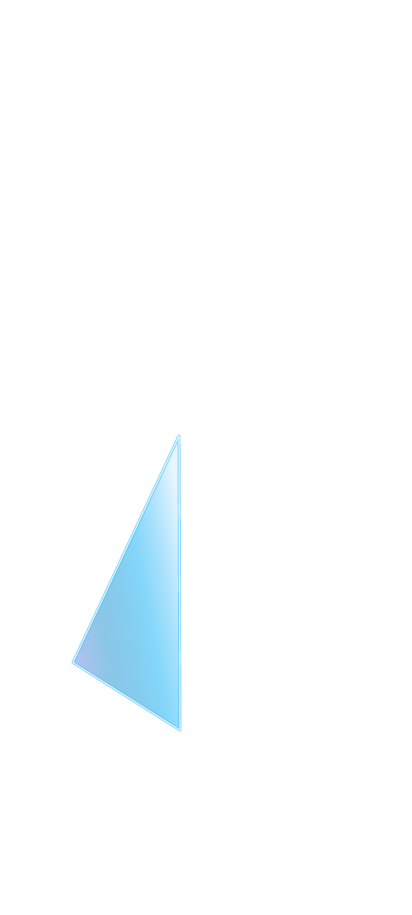
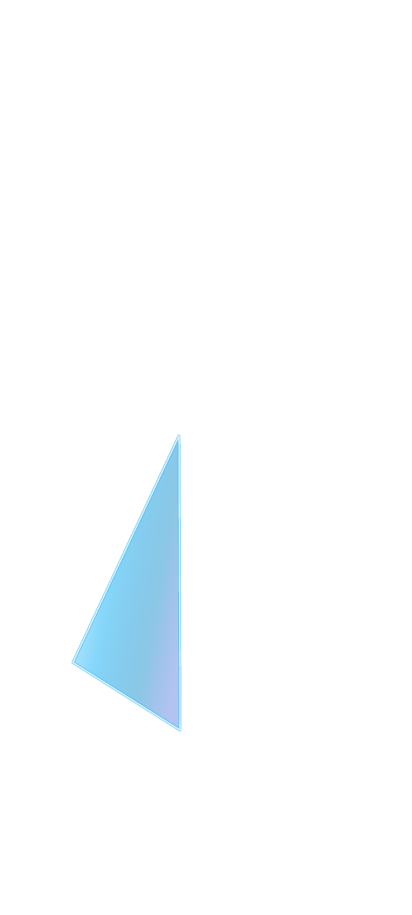
fix(startup): cover all 23 screen polygons and slow fan sweep to 3.85s

Changed region(s): [[0.3495, 0.4896, 0.4369, 0.7956], [0.1748, 0.7038, 0.233, 0.7344]]

diff --git a/src/components/StartupScreen.js b/src/components/StartupScreen.js
@@ -1,20 +1,12 @@
 import React, { useEffect, useState } from 'react';
-import { Image, StatusBar, StyleSheet, useWindowDimensions, View } from 'react-native';
+import { Image, StatusBar, StyleSheet, View } from 'react-native';
 import { STARTUP_POLYGONS } from './startupPolygons';
 import OVERLAYS from './startupOverlays';
 
-const STEP_MS = 80;
+const STEP_MS = 175;
 
 export default function StartupScreen() {
     const totalPolygons = STARTUP_POLYGONS.length;
-    const dims = useWindowDimensions();
-    const frameStyle = [
-        styles.bgImage,
-        dims?.width > 0 && dims?.height > 0
-            ? { width: dims.width, height: dims.height }
-            : null,
-    ];
-
     const [litCount, setLitCount] = useState(1);
 
     useEffect(() => {
@@ -29,7 +21,7 @@ export default function StartupScreen() {
             if (next >= totalPolygons) {
                 clearInterval(timer);
             }
-        }, 50);
+        }, 45);
 
         return () => clearInterval(timer);
     }, [totalPolygons]);
@@ -41,11 +33,11 @@ export default function StartupScreen() {
             accessibilityLabel="CryptoTracker"
             accessibilityValue={{ min: 0, max: totalPolygons, now: litCount }}
         >
-            <StatusBar barStyle="light-content" backgroundColor="#070F1C" />
+            <StatusBar barStyle="light-content" backgroundColor="transparent" translucent />
             <Image
                 source={require('../../assets/images/splash-polygons-bg.png')}
                 fadeDuration={0}
-                style={frameStyle}
+                style={styles.bgImage}
                 resizeMode="stretch"
             />
             {STARTUP_POLYGONS.slice(0, litCount).map((poly, index) => (
@@ -54,7 +46,7 @@ export default function StartupScreen() {
                     testID={`startup-polygon-lit-${poly.id}`}
                     source={OVERLAYS[index]}
                     fadeDuration={0}
-                    style={frameStyle}
+                    style={styles.bgImage}
                     resizeMode="stretch"
                 />
             ))}

diff --git a/src/components/startupPolygons.js b/src/components/startupPolygons.js
@@ -2,6 +2,7 @@
 // Consumed by StartupScreen.js and scripts/generate-startup-overlays.mjs.
 const V = {
     C_TL:  [0, 0],
+    C_TR:  [412, 0],
     T0:    [27, 0],
     T1:    [158, 0],
     T2:    [254, 0],
@@ -24,20 +25,23 @@ const V = {
     V5:    [73, 662.5],
     L6:    [0, 703.5],
     V6:    [180, 730],
-    V7:    [410, 765.5],
+    V7:    [412, 765.5],
     L7:    [0, 903],
     B0:    [11, 915],
     C_BL:  [0, 915],
+    C_BR:  [412, 915],
 };
 
 export const STARTUP_POLYGONS = [
     { id: 'P20', side: 'left',  pts: ['L7', 'V5', 'V6', 'B0', 'C_BL'] },
-    { id: 'P18', side: 'right', pts: ['V4', 'V7', 'V6'] },
+    { id: 'P21', side: 'right', pts: ['B0', 'V6', 'V7', 'C_BR'] },
     { id: 'P19', side: 'left',  pts: ['L6', 'V5', 'L7'] },
-    { id: 'P17', side: 'right', pts: ['V3', 'V4', 'V6'] },
+    { id: 'P18', side: 'right', pts: ['V4', 'V7', 'V6'] },
     { id: 'P15', side: 'left',  pts: ['L5', 'V5', 'L6'] },
-    { id: 'P16', side: 'right', pts: ['V3', 'V6', 'V5'] },
+    { id: 'P22', side: 'right', pts: ['V4', 'R2', 'V7'] },
     { id: 'P14', side: 'left',  pts: ['L4', 'V5', 'L5'] },
+    { id: 'P17', side: 'right', pts: ['V3', 'V4', 'V6'] },
+    { id: 'P16', side: 'left',  pts: ['V3', 'V6', 'V5'] },
     { id: 'P12', side: 'right', pts: ['V2', 'R1', 'R2', 'V4'] },
     { id: 'P13', side: 'left',  pts: ['L3', 'V3', 'V5', 'L4'] },
     { id: 'P11', side: 'right', pts: ['V2', 'V4', 'V3'] },
@@ -51,6 +55,7 @@ export const STARTUP_POLYGONS = [
     { id: 'P6',  side: 'right', pts: ['V0', 'V2', 'V1'] },
     { id: 'P2',  side: 'left',  pts: ['T0', 'T1', 'V0'] },
     { id: 'P5',  side: 'right', pts: ['T1', 'T2', 'V2', 'V0'] },
+    { id: 'P23', side: 'right', pts: ['T3', 'C_TR', 'R_TOP'] },
 ];
 
 export { V };

diff --git a/src/components/startupOverlays.js b/src/components/startupOverlays.js
@@ -2,12 +2,14 @@
 // Index-aligned with STARTUP_POLYGONS: one full-canvas lit overlay per polygon.
 export default [
   require('../../assets/images/startup-overlays/lit-P20.png'),
-  require('../../assets/images/startup-overlays/lit-P18.png'),
+  require('../../assets/images/startup-overlays/lit-P21.png'),
   require('../../assets/images/startup-overlays/lit-P19.png'),
-  require('../../assets/images/startup-overlays/lit-P17.png'),
+  require('../../assets/images/startup-overlays/lit-P18.png'),
   require('../../assets/images/startup-overlays/lit-P15.png'),
-  require('../../assets/images/startup-overlays/lit-P16.png'),
+  require('../../assets/images/startup-overlays/lit-P22.png'),
   require('../../assets/images/startup-overlays/lit-P14.png'),
+  require('../../assets/images/startup-overlays/lit-P17.png'),
+  require('../../assets/images/startup-overlays/lit-P16.png'),
   require('../../assets/images/startup-overlays/lit-P12.png'),
   require('../../assets/images/startup-overlays/lit-P13.png'),
   require('../../assets/images/startup-overlays/lit-P11.png'),
@@ -21,4 +23,5 @@ export default [
   require('../../assets/images/startup-overlays/lit-P6.png'),
   require('../../assets/images/startup-overlays/lit-P2.png'),
   require('../../assets/images/startup-overlays/lit-P5.png'),
+  require('../../assets/images/startup-overlays/lit-P23.png'),
 ];

diff --git a/src/screens/HomeScreen.js b/src/screens/HomeScreen.js
@@ -207,7 +207,7 @@ export default function HomeScreen() {
         (async () => {
             const minSplashTimer = process.env.NODE_ENV === 'test'
                 ? Promise.resolve()
-                : new Promise((resolve) => setTimeout(resolve, 2100));
+                : new Promise((resolve) => setTimeout(resolve, 3900));
             let selectedCurrency = 'EUR';
             try {
                 await initDb();

diff --git a/src/components/__tests__/StartupScreen.test.js b/src/components/__tests__/StartupScreen.test.js
@@ -27,7 +27,7 @@ describe('StartupScreen fan animation', () => {
         expect(earlyLit).toBeGreaterThan(initialLit);
         expect(earlyLit).toBeLessThan(STARTUP_POLYGONS.length);
 
-        await settle(1800);
+        await settle(3600);
         expect(litCount(screen)).toBe(STARTUP_POLYGONS.length);
     }, 20000);
 });
